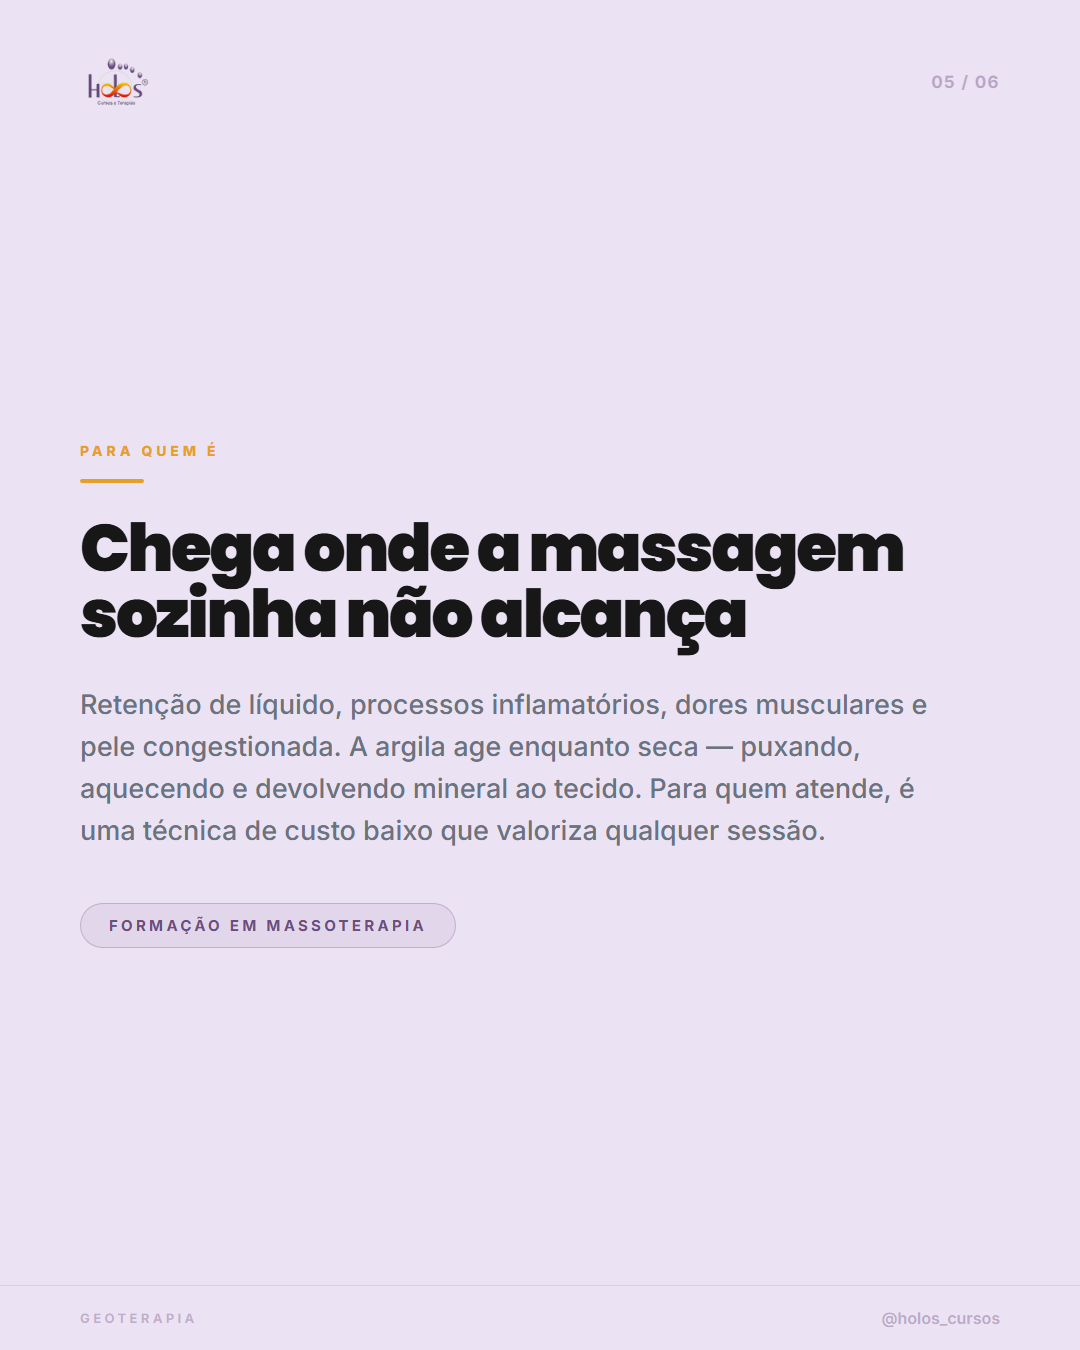
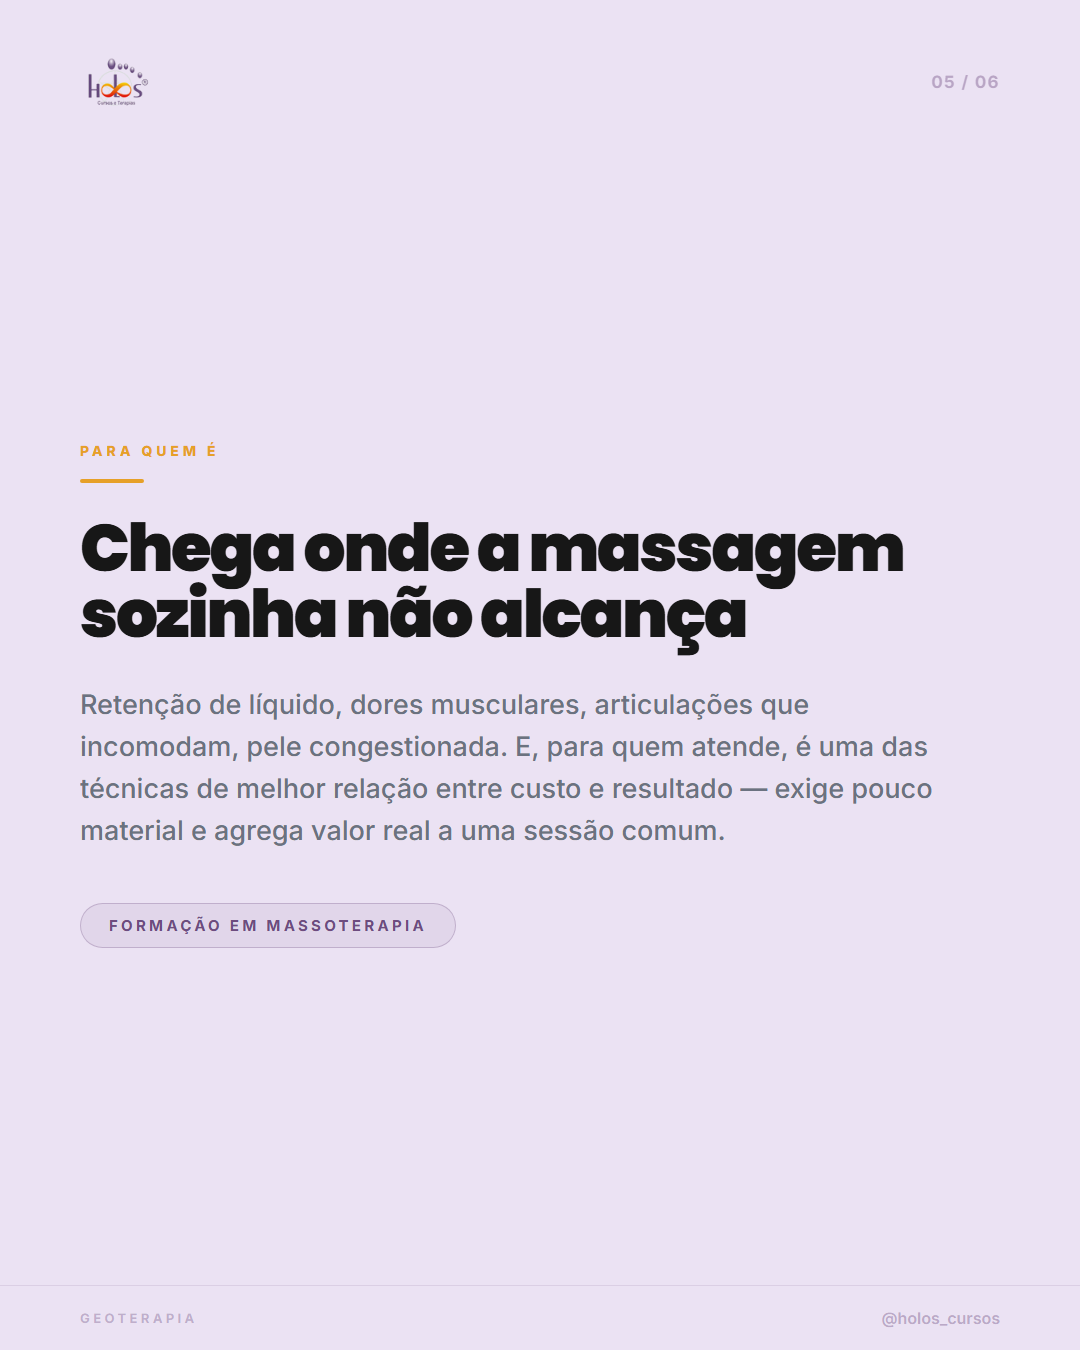
Carrossel Geoterapia (feed 23/07) — textos revisados e slides re-renderizados

Changed region(s): [[0.0611, 0.4978, 0.8556, 0.6222]]

diff --git a/marketing/conteudo/feed-geoterapia-2026-07-23/carrossel.html b/marketing/conteudo/feed-geoterapia-2026-07-23/carrossel.html
@@ -160,17 +160,20 @@
     padding: 140px 80px 100px;
   }
   .s3 .eyebrow { margin-bottom: 20px; }
-  .s3 .num {
+  .s3 .regua { margin-bottom: 32px; }
+  .s3 .watermark {
+    position: absolute;
+    bottom: -46px; right: 46px;
     font-family: 'Poppins', sans-serif;
     font-weight: 900; font-size: 250px;
-    line-height: 0.86; letter-spacing: -0.06em;
-    color: #E6A028;
-    margin-bottom: 28px;
+    line-height: 1;
+    color: rgba(109,76,127,0.05);
+    letter-spacing: -0.06em;
+    user-select: none; pointer-events: none;
   }
-  .s3 .regua { margin-bottom: 32px; }
   .s3 .h2 {
     font-family: 'Poppins', sans-serif;
-    font-weight: 900; font-size: 62px;
+    font-weight: 900; font-size: 66px;
     line-height: 1.01; letter-spacing: -0.035em;
     color: #171717;
     margin-bottom: 34px;
@@ -335,8 +338,8 @@
   <div class="body">
     <span class="eyebrow">A Técnica</span>
     <div class="regua" style="margin-bottom:32px"></div>
-    <h2 class="h2">Argila não é estética.<br>É tratamento.</h2>
-    <p class="p">A Geoterapia trabalha com argilas medicinais aplicadas sobre a pele em temperatura e espessura controladas. Cada tipo de argila tem uma composição mineral própria — e é ela que define para que serve, onde aplicar e por quanto tempo.</p>
+    <h2 class="h2">Argila não é só estética.<br>É tratamento.</h2>
+    <p class="p">A Geoterapia trabalha com argilas medicinais aplicadas sobre a pele em temperatura e espessura controladas. É um recurso usado há milhares de anos por povos de tradições muito diferentes — e que hoje se aplica com critério técnico, indicação e higiene.</p>
   </div>
   <div class="stamp">
     <span class="stamp-t">Recurso<br>mineral</span>
@@ -355,12 +358,12 @@
     <span class="counter cnt-light">03 / 06</span>
   </div>
   <div class="body">
-    <span class="eyebrow">História</span>
-    <span class="num">7 mil</span>
+    <span class="eyebrow">Como Age</span>
     <div class="regua" style="margin-bottom:32px"></div>
-    <h2 class="h2">anos de uso registrado</h2>
-    <p class="p">Egípcios, chineses e povos indígenas já usavam a terra como recurso de cuidado. A Geoterapia não é modismo — é conhecimento antigo, aplicado hoje com critério técnico e higiene.</p>
+    <h2 class="h2">O trabalho acontece enquanto a argila seca</h2>
+    <p class="p">Aplicada morna sobre a pele, a argila começa a secar — e é nesse processo que ela age. Puxa o que está retido, mantém o calor no local e devolve minerais ao tecido. Não é o terapeuta que faz a força ali: é a matéria trabalhando.</p>
   </div>
+  <div class="watermark">argila</div>
   <div class="ftr ftr-light">
     <span class="ftr-label ftr-label-l">Geoterapia</span>
     <span class="ftr-handle ftr-handle-l">@holos_cursos</span>
@@ -398,7 +401,7 @@
     <span class="eyebrow">Para Quem É</span>
     <div class="regua" style="margin-bottom:32px"></div>
     <h2 class="h2">Chega onde a massagem sozinha não alcança</h2>
-    <p class="p">Retenção de líquido, processos inflamatórios, dores musculares e pele congestionada. A argila age enquanto seca — puxando, aquecendo e devolvendo mineral ao tecido. Para quem atende, é uma técnica de custo baixo que valoriza qualquer sessão.</p>
+    <p class="p">Retenção de líquido, dores musculares, articulações que incomodam, pele congestionada. E, para quem atende, é uma das técnicas de melhor relação entre custo e resultado — exige pouco material e agrega valor real a uma sessão comum.</p>
     <span class="tag">Formação em Massoterapia</span>
   </div>
   <div class="ftr ftr-light">

diff --git a/marketing/conteudo/feed-geoterapia-2026-07-23/legenda.md b/marketing/conteudo/feed-geoterapia-2026-07-23/legenda.md
@@ -1,12 +1,12 @@
 # Legenda — Carrossel Geoterapia (série Técnicas da Formação)
 
-Argila não é tratamento de spa. É técnica.
+Argila não é só estética. É tratamento.
 
-A Geoterapia usa argilas medicinais aplicadas sobre a pele em temperatura e espessura controladas — e cada tipo de argila tem uma composição mineral diferente. É essa composição que define para que ela serve, onde aplicar e por quanto tempo deixar agir. Verde para absorção, branca para peles sensíveis, vermelha para circulação, preta para dores articulares.
+Na Geoterapia, a argila é aplicada morna sobre a pele em espessura controlada — e o trabalho acontece justamente enquanto ela seca. Nesse processo, puxa o que está retido, mantém o calor no local e devolve minerais ao tecido.
 
-O recurso é antigo: há cerca de 7 mil anos egípcios, chineses e povos indígenas já usavam a terra como cuidado. O que mudou foi o critério — hoje a aplicação é feita com técnica, higiene e indicação.
+Cada tipo tem uma função própria: a verde para absorção, a branca para peles sensíveis, a vermelha para circulação e musculatura, a preta para dores articulares. É a composição mineral que define onde aplicar e por quanto tempo deixar agir.
 
-Para quem atende, é uma das técnicas de melhor relação entre custo e resultado: chega em retenção de líquido, processos inflamatórios e dores musculares que a massagem sozinha não alcança.
+É um recurso antigo, usado há milhares de anos por povos de tradições bem diferentes. O que mudou foi o critério — hoje se aplica com técnica, indicação e higiene.
 
 Arraste pro lado e conheça a técnica por dentro.
 